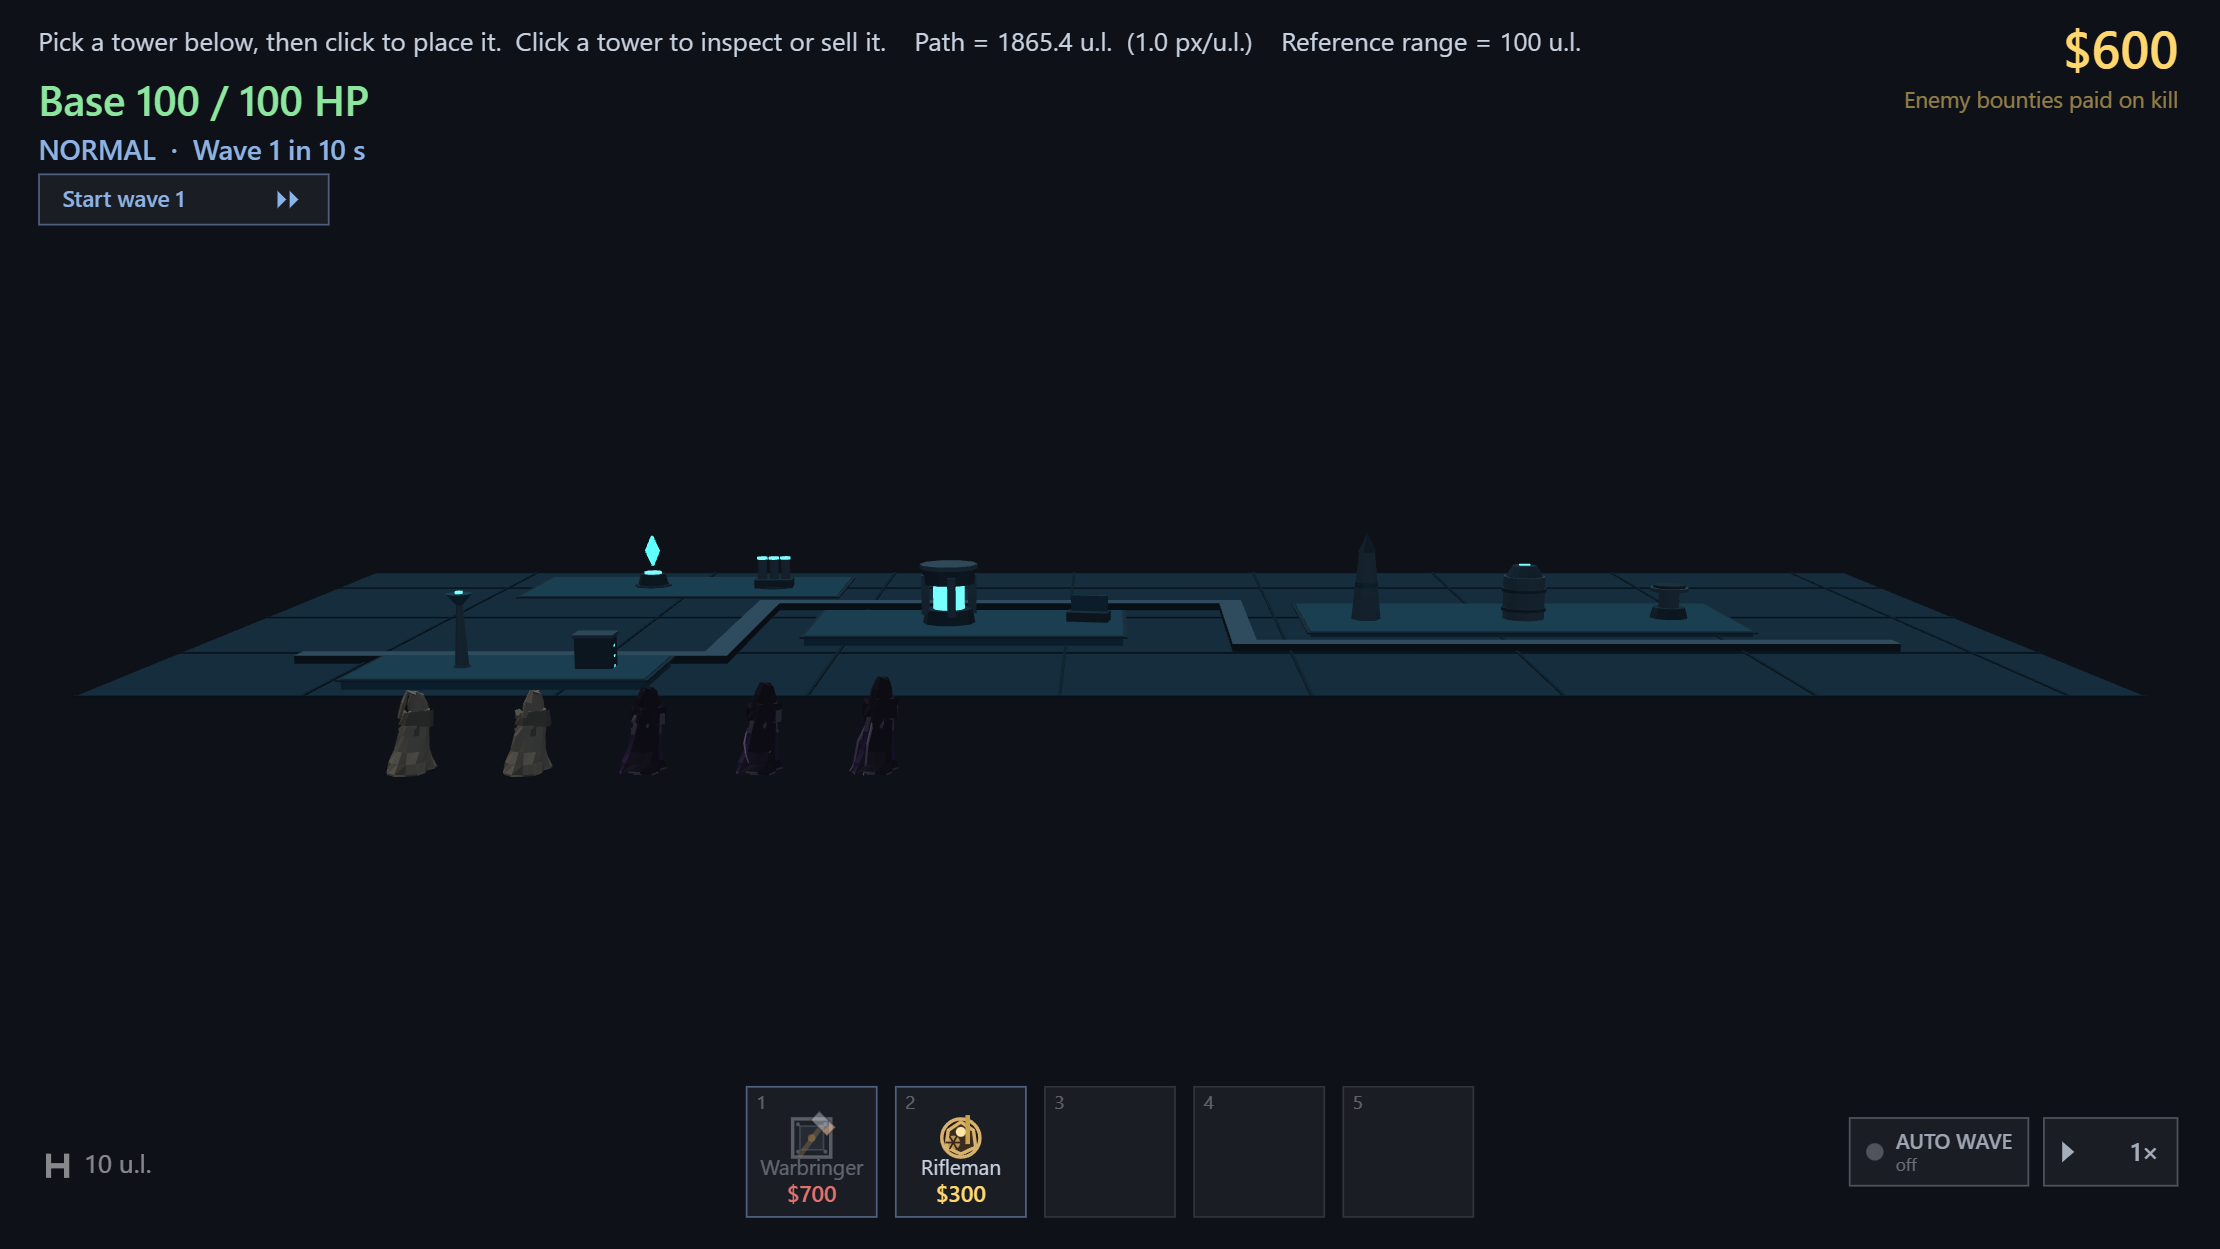
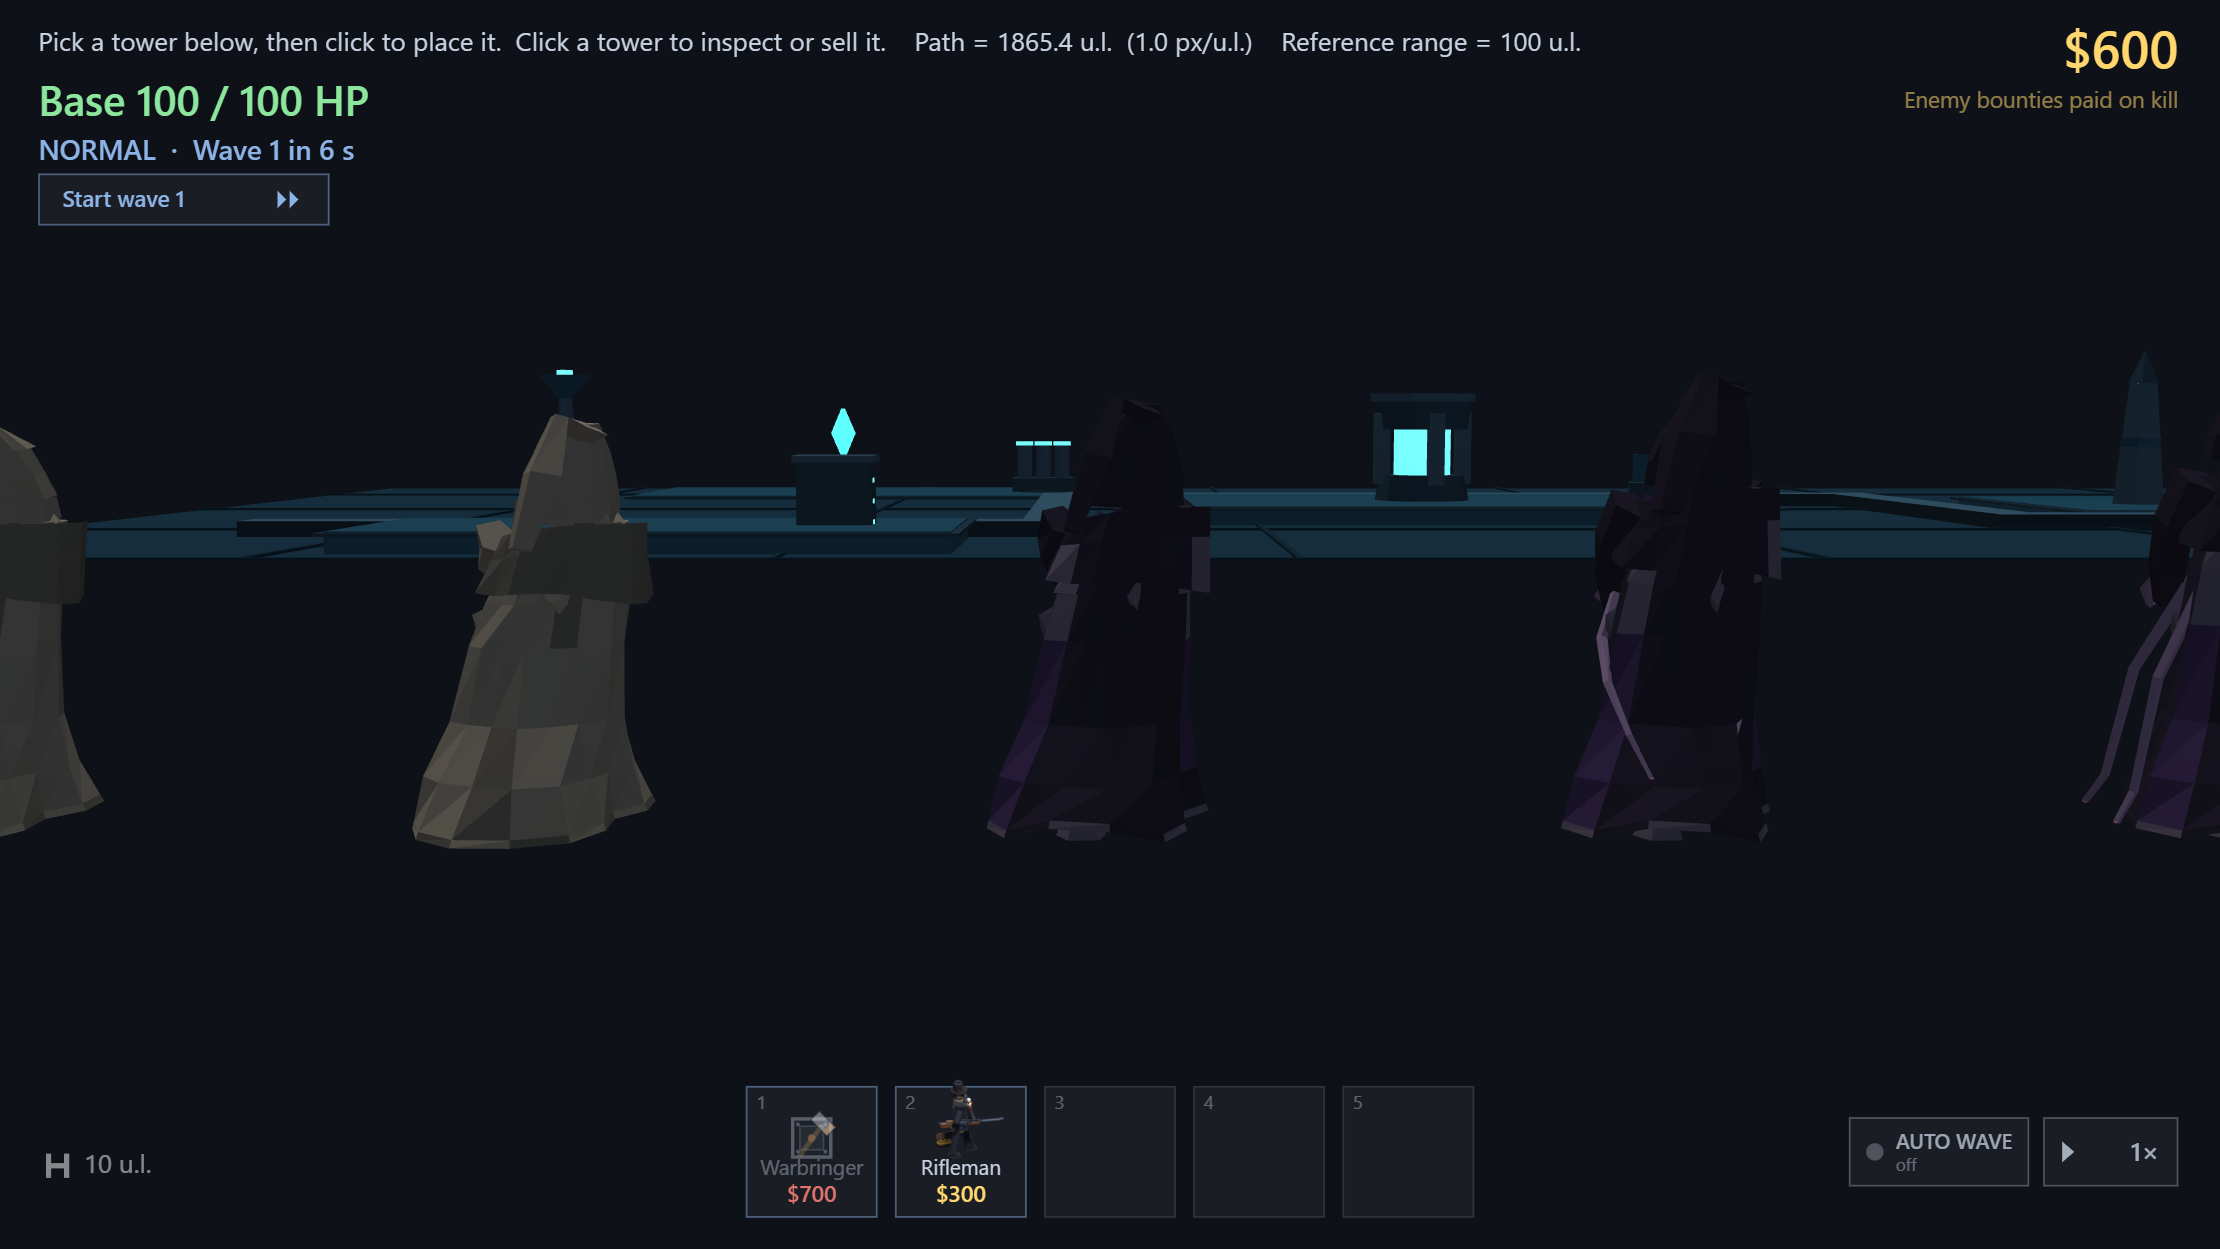
Agent output in flight: Siphon ground and enemy effect modules, review captures

diff --git a/TD_0.5.0/js/gl/siphon-enemy-fx.js b/TD_0.5.0/js/gl/siphon-enemy-fx.js
@@ -112,11 +112,12 @@
 //   * ZERO COST WHEN NOTHING IS ENLISE. `bog()` returns on a count check
 //     before it touches the Map, so a board with no Siphon on it pays one
 //     integer compare per enemy per frame and nothing else.
-//   * ONE PROJECTION PER TRAIL, not one per stamp. The ground basis is
-//     measured ONCE per frame at the board centre and every stamp is then
-//     placed with two multiply-adds -- the same trick blub-systems.js uses
-//     for its decals, and the same argument: over a mark thirty pixels long
-//     the perspective difference from the board centre is invisible.
+//   * THREE PROJECTIONS PER TRAIL, not two per stamp. The ground's basis is
+//     measured at each trail's own anchor and every stamp is then placed with
+//     two multiply-adds. A board-centre basis shared by the whole frame is
+//     cheaper still and is what blub-systems.js does, but it is only valid
+//     near where it was measured -- see the note on PROBE for the measurement
+//     that showed it collapsing the ribbon.
 //   * ONE FILLED RIBBON per trail (two at full quality: the drag, plus a
 //     faint sheen over its freshest third). At 100 enlises that is 100
 //     projections and 200 fills of a 16-point path -- measured against
@@ -325,7 +326,6 @@ var SiphonFXEnemy = (function () {
     if (records) records.clear();
     while (live.length) retire(live.pop());
     token = -1;
-    frameToken = -1;
     counts.records = counts.trails = counts.gilds = counts.stamps = 0;
   }
 
@@ -602,10 +602,12 @@ var SiphonFXEnemy = (function () {
 
   // --- the ground layer -----------------------------------------------------
 
+  // The ribbon's own ground frame, refilled per trail. Module-level so no
+  // object is allocated per body per frame.
+  var rAx = 1, rAy = 0, rBx = 0, rBy = 1, rOx = 0, rOy = 0, rX = 0, rY = 0;
+
   function drawTrails(ctx, state) {
     if (!api || !live.length) return;
-    var now = state ? (state.now || 0) : 0;
-    if (!ensureFrame(now)) return;
 
     var drawn = 0;
     ctx.save();
@@ -613,15 +615,21 @@ var SiphonFXEnemy = (function () {
       var rec = live[i];
       if (rec.count < 2 && !(rec.count === 1 && rec.e)) continue;
 
-      // ONE projection for the whole ribbon: the newest stamp, which is the
-      // patch of road the body is standing on.
+      // The anchor is the newest stamp -- the patch of road the body is
+      // standing on -- and the frame is measured right there.
       var newest = rec.stamps[(rec.head - 1 + TRAIL_N) % TRAIL_N];
-      var p = api.project(newest.x, newest.y, 0.35);
+      rX = newest.x; rY = newest.y;
+      var p = api.project(rX, rY, 0.35);
       if (!p) continue;
-      var k = (p.scale || 1) / fScale;
-      var ax = newest.x, ay = newest.y;
+      var qx = api.project(rX + PROBE, rY, 0.35);
+      if (!qx) continue;
+      var qy = api.project(rX, rY + PROBE, 0.35);
+      if (!qy) continue;
+      rOx = p.x; rOy = p.y;
+      rAx = (qx.x - p.x) / PROBE; rAy = (qx.y - p.y) / PROBE;
+      rBx = (qy.x - p.x) / PROBE; rBy = (qy.y - p.y) / PROBE;
 
-      if (!ribbon(ctx, rec, p, k, ax, ay, rec.count, 1)) continue;
+      if (!ribbon(ctx, rec, rec.count, 1)) continue;
       ctx.fillStyle = TRAIL_DRAG;
       ctx.fill();
       drawn++;
@@ -631,7 +639,7 @@ var SiphonFXEnemy = (function () {
       // has dried. First thing `quality()` drops.
       if (quality >= 0.75 && rec.count >= 3) {
         var fresh = rec.count < 4 ? rec.count : (rec.count >> 1);
-        if (ribbon(ctx, rec, p, k, ax, ay, fresh, 0.62)) {
+        if (ribbon(ctx, rec, fresh, 0.62)) {
           ctx.fillStyle = TRAIL_CORE;
           ctx.fill();
         }
@@ -642,39 +650,39 @@ var SiphonFXEnemy = (function () {
   }
 
   // The ribbon as ONE path: up one side from the oldest stamp to the newest,
-  // then back down the other. `n` stamps from the head; `scale` narrows it for
-  // the sheen pass so the second fill sits inside the first.
-  function ribbon(ctx, rec, p, k, ax, ay, n, scale) {
+  // then back down the other. `n` stamps from the head; `narrow` pulls the
+  // second fill inside the first.
+  function ribbon(ctx, rec, n, narrow) {
     if (n < 2) return false;
-    var i, s, sx, sy, hw, dx, dy;
+    var i, s, hw, dx, dy;
     ctx.beginPath();
     // Oldest -> newest along the left edge.
     for (i = n - 1; i >= 0; i--) {
       s = rec.stamps[(rec.head - 1 - i + TRAIL_N * 2) % TRAIL_N];
       if (s.age >= TRAIL_LIFE_S) continue;
-      hw = s.w * scale * (0.35 + 0.65 * (1 - s.age / TRAIL_LIFE_S));
-      dx = s.x - ax + s.nx * hw;
-      dy = s.y - ay + s.ny * hw;
-      sx = p.x + (dx * fAx + dy * fBx) * k;
-      sy = p.y + (dx * fAy + dy * fBy) * k;
-      if (i === n - 1) ctx.moveTo(sx, sy); else ctx.lineTo(sx, sy);
+      hw = s.w * narrow * (0.35 + 0.65 * (1 - s.age / TRAIL_LIFE_S));
+      dx = s.x - rX + s.nx * hw;
+      dy = s.y - rY + s.ny * hw;
+      if (i === n - 1) {
+        ctx.moveTo(rOx + dx * rAx + dy * rBx, rOy + dx * rAy + dy * rBy);
+      } else {
+        ctx.lineTo(rOx + dx * rAx + dy * rBx, rOy + dx * rAy + dy * rBy);
+      }
     }
     // The head of the ribbon is the body's own feet, so the drag is attached
     // to the thing dragging rather than starting a stamp behind it.
     if (rec.e && rec.e.pos) {
-      dx = rec.e.pos.x - ax; dy = rec.e.pos.y - ay;
-      ctx.lineTo(p.x + (dx * fAx + dy * fBx) * k,
-                 p.y + (dx * fAy + dy * fBy) * k);
+      dx = rec.e.pos.x - rX; dy = rec.e.pos.y - rY;
+      ctx.lineTo(rOx + dx * rAx + dy * rBx, rOy + dx * rAy + dy * rBy);
     }
     // Newest -> oldest along the right edge.
     for (i = 0; i < n; i++) {
       s = rec.stamps[(rec.head - 1 - i + TRAIL_N * 2) % TRAIL_N];
       if (s.age >= TRAIL_LIFE_S) continue;
-      hw = s.w * scale * (0.35 + 0.65 * (1 - s.age / TRAIL_LIFE_S));
-      dx = s.x - ax - s.nx * hw;
-      dy = s.y - ay - s.ny * hw;
-      ctx.lineTo(p.x + (dx * fAx + dy * fBx) * k,
-                 p.y + (dx * fAy + dy * fBy) * k);
+      hw = s.w * narrow * (0.35 + 0.65 * (1 - s.age / TRAIL_LIFE_S));
+      dx = s.x - rX - s.nx * hw;
+      dy = s.y - rY - s.ny * hw;
+      ctx.lineTo(rOx + dx * rAx + dy * rBx, rOy + dx * rAy + dy * rBy);
     }
     ctx.closePath();
     return true;

diff --git a/TD_0.5.0/js/gl/siphon-ground.js b/TD_0.5.0/js/gl/siphon-ground.js
@@ -522,26 +522,32 @@ var SiphonFXGround = (function () {
       }
     }
 
-    // THE DELTA. Where the vein arrives it splays into fingers reaching for the
-    // road's exit and dives under it -- the road mask cuts them at the kerb, so
-    // what is on screen is a hand gripping the ground beside the base.
+    // THE DELTA -- where the vein reaches the base and goes under the road.
+    //
+    // NOT A FAN FROM THE END POINT. That is what this was first, three fingers
+    // radiating from the terminus, and at the right-hand edge of the board it
+    // drew an arrowhead pointing off the map -- an icon, which section 8 forbids
+    // outright, and one that says "exit" rather than "this is where your life
+    // goes in". Instead the last tenth of the trunk FRAYS: three short roots
+    // leave it sideways at three different stations, head under the road, and
+    // are cut at the kerb by the same mask that cuts the trunk. Three parallel
+    // dives, staggered, with no common origin to read as a point.
     var delta = [];
-    var toRoadX = term.roadX - term.x, toRoadY = term.roadY - term.y;
-    var aRoad = Math.atan2(toRoadY, toRoadX);
     var nd = 3;
-    // Just long enough that the straightest fingers reach the kerb and are cut
-    // by the road mask -- which is the whole point of them. The vein does not
-    // stop beside the road, it goes UNDER it, and the fingers are where that
-    // reads. A wider, longer fan was tried and read as an arrowhead pointing
-    // off the edge of the board, which is precisely the icon section 8 forbids.
-    var dl = (term.off - b.half + 6) * (tierB >= 5 ? 1.05 : (tierB >= 4 ? 0.9 : 0.75));
+    var reach = (term.off - b.half + 10) * (tierB >= 5 ? 1.0 : (tierB >= 4 ? 0.88 : 0.74));
     for (var g2 = 0; g2 < nd; g2++) {
-      var da = aRoad + (g2 - (nd - 1) / 2) * 0.34;
-      var dd = dl * (0.7 + 0.5 * Math.abs(noise(seed, 101 + g2)));
+      var sm3 = 0.885 + g2 * 0.045;
+      var id3 = sampleIndex(trunk, sm3);
+      var dx3 = trunk.wx[id3 * 2], dy3 = trunk.wx[id3 * 2 + 1];
+      // Toward the road: the opposite of the offset that put the terminus clear
+      // of it, turned a little per finger so they are not three copies.
+      var da = Math.atan2(-term.py, -term.px) + (g2 - 1) * 0.22 +
+        noise(seed, 111 + g2) * 0.12;
+      var dd = reach * (0.8 + 0.35 * Math.abs(noise(seed, 101 + g2)));
       delta.push(strand([
-        term.x, term.y,
-        term.x + Math.cos(da) * dd * 0.5, term.y + Math.sin(da) * dd * 0.5,
-        term.x + Math.cos(da) * dd, term.y + Math.sin(da) * dd
+        dx3, dy3,
+        dx3 + Math.cos(da) * dd * 0.45, dy3 + Math.sin(da) * dd * 0.45,
+        dx3 + Math.cos(da) * dd, dy3 + Math.sin(da) * dd
       ], zBase, b, 0));
     }
 
